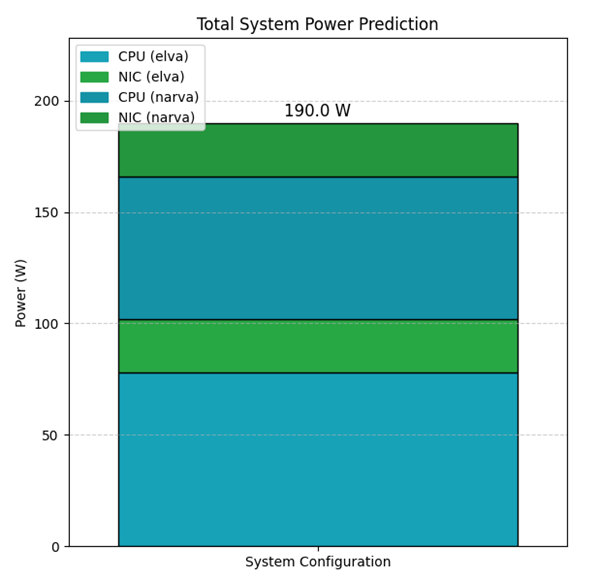
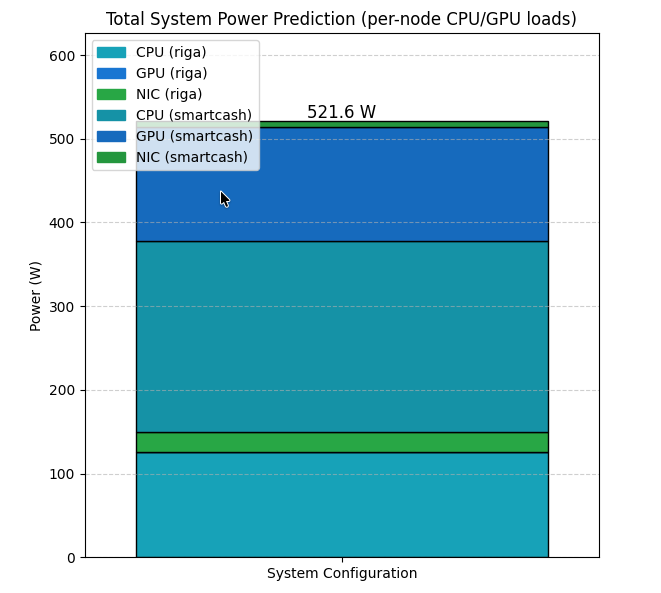
updated README with new GPU Support

diff --git a/README.md b/README.md
@@ -2,6 +2,8 @@
 
 This Jupyter-based toolset supports **energy analysis, modeling, and prediction** for network experiment testbeds. It utilizes [RO-Crate](https://www.researchobject.org/ro-crate/) metadata and CSV energy logs to generate rich visualizations, create machine learning models, and simulate power draw under configurable load conditions.
 
+---
+
 ## Notebooks Overview
 
 ### 1. `evaluation.ipynb` — **Energy Data Visualization**
@@ -21,33 +23,56 @@ Analyzes raw energy CSV files for multiple nodes and runs.
   - Per-node energy bar charts
 - Generates formatted metadata summaries and clickable topology links.
 
-> Input: `energy/` folder & `ro-crate-metadata.json`
-> Output: Visual plots + metadata tables
+**Input:** `energy/` folder & `ro-crate-metadata.json`
+**Output:** Visual plots + metadata tables
 
 Exemplary energy consumption plot:
 
 ![Evaluation — power consumption for two nodes](pics/evaluation.png)
 
-### 2. `energy_model.ipynb` — **CPU Energy Modeling**
+---
 
-Fits regression models (linear/polynomial) to stress test results.
+### 2. `energy_model.ipynb` — **CPU & GPU Energy Modeling**
 
-#### Key Features
+Fits regression models (linear / polynomial) to controlled stress test results.
 
-- Uses stress-run outputs from previous testbed executions.
+#### CPU Modeling (stress-based)
+
+- Uses CPU stress-run outputs from previous testbed executions.
 - Fits two model types:
   - **Linear (with or without idle intercept)**
   - **Polynomial (quadratic)**
 - Stores each trained model as a `.json` file for later prediction.
 
-> Input: CPU-only energy runs (per node)
-> Output: Model file `cpu_model_<node>.json` stored in `data/cpu_models/`
+**Input:** CPU-only energy runs (per node)
+**Output:** Model file `cpu_model_<node>.json` stored in `data/cpu_models/`
 
 Exemplary `cpu_model.json`:
 
-![Model — example cpu_model.json](pics/model.png)
+![Model — example cpu_model.json](pics/cpu-model.png)
 
-### 3. `prediction.ipynb` — **Interactive Power Prediction**
+---
+
+#### GPU Modeling (gpu-burn-based)
+
+GPU models are created using **gpu-burn**
+<https://github.com/wilicc/gpu-burn>
+
+- Runs `gpu_burn` in a controlled test setup to generate reproducible GPU load steps:
+  - **25% / 50% / 75% / 100% effective load**
+- Fits regression models (linear / quadratic) analogous to the CPU workflow.
+- Stores each trained model as a `.json` file for later prediction.
+
+**Input:** GPU energy runs (per node / GPU-enabled node)
+**Output:** Model file `gpu_model_<node>.json` stored in `data/gpu_models/`
+
+Exemplary `gpu_model.json`:
+
+![Model — example gpu_model.json](pics/gpu-model.png)
+
+---
+
+### 3. `prediction.ipynb` — **Interactive Power Prediction (CPU + GPU + NIC)**
 
 Predicts server power draw using trained models and user-defined configurations.
 
@@ -58,32 +83,44 @@ Predicts server power draw using trained models and user-defined configurations.
   - Choose active NICs
   - Set number of active CPU cores
   - Select target CPU load (0–100%)
+  - **(If available) Select GPU load (0–100%) using GPU model**
 - Visual prediction modes:
   - **Per-node stacked plots**
   - **System-wide stacked summary**
 - Fully interactive and updates live on input change.
 
-> Input: CPU model files (`cpu_model_<node>.json`)
-> Output: Live power prediction visualizations
+**Input:**
+- CPU model files (`cpu_model_<node>.json`)
+- Optional GPU model files (`gpu_model_<node>.json`)
 
-Exemplary prediction plot:
+**Output:** Live power prediction visualizations
+
+Exemplary prediction plots:
 
 ![Prediction — interactive power prediction](pics/prediction.png)
 
-### 4. `api_integration.ipynb` — Publish RO-Crates to GreenDIGIT Catalogue
+![Prediction — total system prediction](pics/prediction-total.png)
+
+> **Note:** Most nodes do not have a GPU installed. GPU configuration and GPU power contribution are only enabled for nodes with an available `gpu_model_<node>.json`.
+
+---
+
+### 4. `api_integration.ipynb` — **Publish RO-Crates to GreenDIGIT Catalogue**
 
 Extracts metadata from a local RO-Crate and publishes it to the GreenDIGIT catalogue using the gCat API.
 
 #### Key Features
 
-- Extracts title, description, keywords, and authors from ro-crate-metadata.json
+- Extracts title, description, keywords, and authors from `ro-crate-metadata.json`
 - Prompts user to upload the zipped RO-Crate to their D4Science Workspace and input the public link
-- Builds and submits a package_create-compatible metadata entry
+- Builds and submits a `package_create`-compatible metadata entry
 - Automatically detects and prints the final dataset URL in the catalogue
 
-> Input: RO-Crate folder (e.g. `./result_folder_examples/...`)
+**Input:** RO-Crate folder (e.g. `./result_folder_examples/...`)
+**Output:** Published dataset visible at
+`https://data.d4science.org/ctlg/GreenDIGIT/...`
 
-> Output: Published dataset visible at <<https://data.d4science.org/ctlg/GreenDIGIT/>...
+---
 
 ## Setup & Requirements
 
@@ -111,7 +148,8 @@ results/
         └── config/                   # Optional extra info (e.g., variable sets)
 
 data/
-  └── cpu_models/                     # Fitted model files for prediction
+  └── cpu_models/                     # Fitted cpu model files per node for prediction
+  └── gpu_models/                     # Fitted model files per node for prediction
 ```
 
 ## Notebook Outputs
